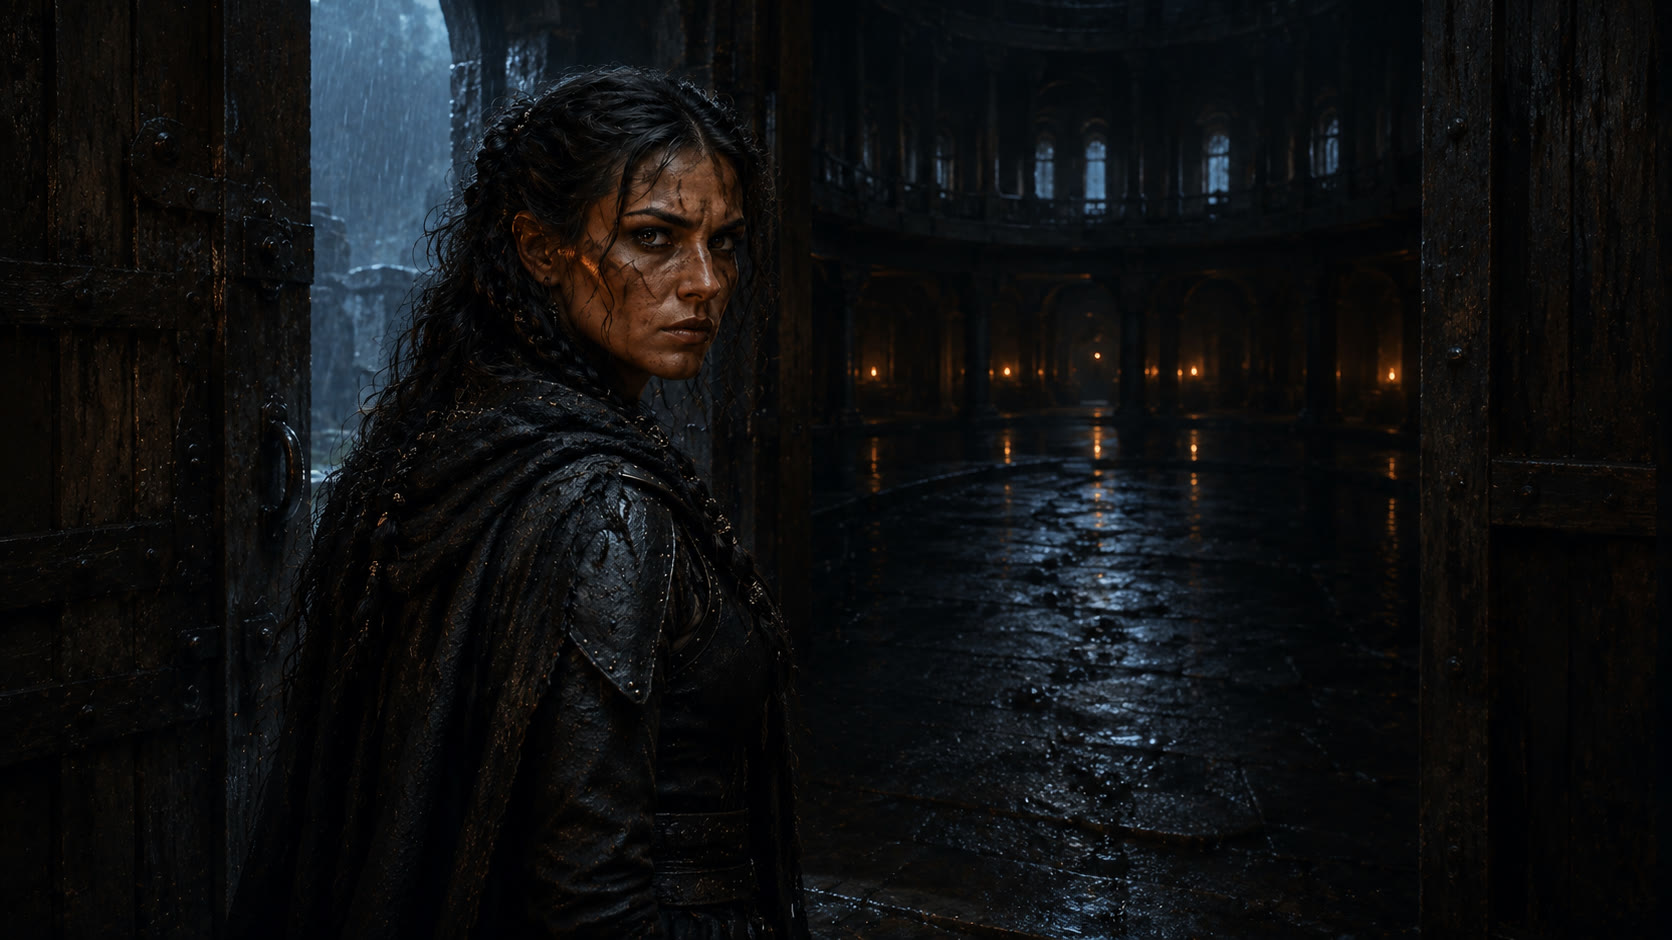
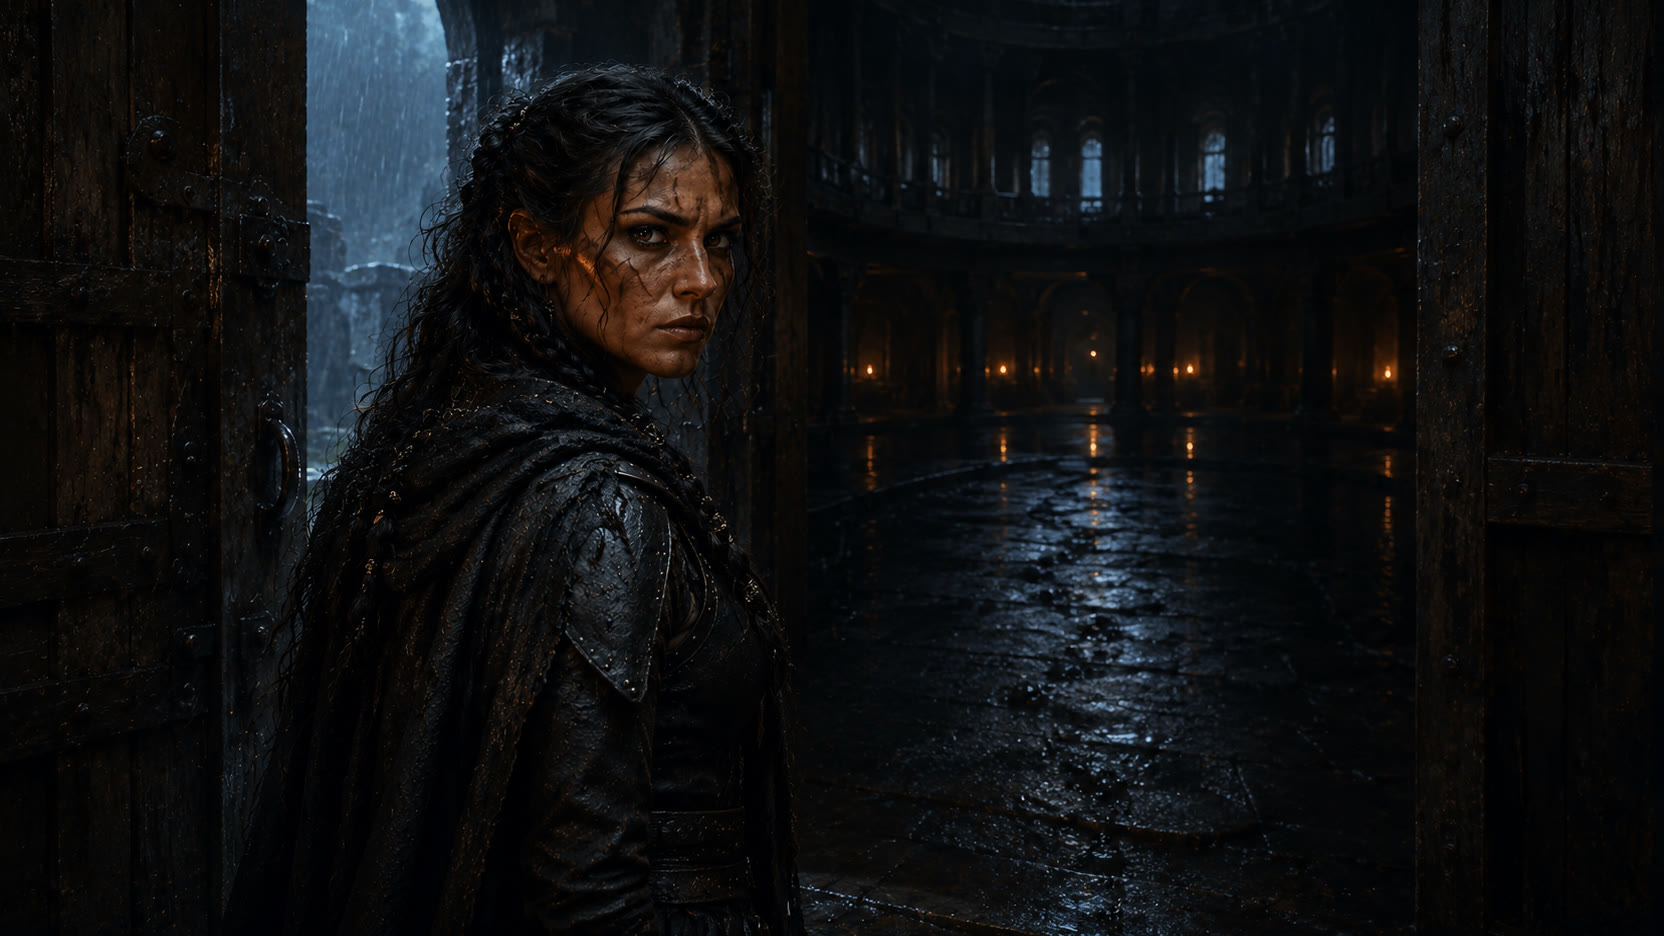
Complete canonical IronFlame production still set

diff --git a/projects/ironflame/PROMPTS.md b/projects/ironflame/PROMPTS.md
@@ -1,0 +1,60 @@
+# IronFlame — Final Image Prompt Set
+
+Generation mode: OpenAI built-in image generation. The supplied storyboard was used only as visual-direction reference. The production frames were newly generated from scratch.
+
+## Global character lock
+
+Use `assets/reference/ironflame-character-anchor.jpg` as the canonical identity reference. Preserve the exact recognizable adult woman: strong weathered face, high cheekbones, straight nose, intense dark eyes, dark wavy hair partly braided, soot/ash on realistic skin, subtle healed scar across the right cheek, worn blackened iron and leather, coarse charcoal cloak. Keep her grounded, practical, scarred, and human. Avoid glossy superhero armor, pristine cosplay, glamour styling, identity drift, text, borders, interfaces, logos, and watermarks.
+
+## Anchor
+
+Create a clean widescreen cinematic portrait in a dark ancient forge: waist-up, hands out of frame, ember light on one side and iron-blue storm shadow on the other. Cinematic realism with restrained dark-fantasy painterly texture, realistic pores, oxidized iron, worn cloth, smoke, and sparse embers. Expression: haunted but resolute.
+
+## 01 — House beneath rain
+
+Ancient isolated stone-and-timber house in a violent mountain rain; narrow windows appear to face inward toward a dim ember glow. IronFlame is a small solitary silhouette at the flooded threshold. Very wide low-angle establishing composition with foreground rain/puddles, house midground, fog mountains behind. Iron blue with one ember-orange interior pulse.
+
+## 02 — Threshold
+
+IronFlame crosses the ancient threshold from storm into darkness, intimate over-the-shoulder three-quarter view. Wet bootprints and rainwater cross dusty flagstones. Inside, inward-facing windows surround the same impossible central hall. Cold rain behind, weak ember light deep inside.
+
+## 03 — Dust remembers
+
+IronFlame works alone at an ancient forge, drawing a half-forged blade from coals with plausible blacksmith tongs. Dust, sparks, and old handprints appear briefly in smoke like memories. Medium-wide side view, face visible, authentic forge and tool geometry, strong ember light against iron-blue shadow.
+
+## 04 — Walls pronounce silence
+
+IronFlame advances through an endless vaulted stone corridor. Human profiles and ancient hand impressions emerge only as erosion, dust, and shadow. She turns toward a whispering wall while hairline ember cracks pulse through it. Long one-point perspective, wet floor, high inward windows, ash-gray/iron-blue palette.
+
+## 05 — Road with wolves
+
+IronFlame walks a narrow wet mountain road beside exactly two realistic dark wolves, moving toward distant ruins as wary equals. Over-the-shoulder journey shot with standing stones, valley fog, moon behind cloud, distant dying fire. Natural gait and scale; no heroic animal-companion pose.
+
+## 06 — Unmade day
+
+IronFlame crosses a silent field of battle remnants before sunrise. Broken shields and abandoned iron lie in rain-dark earth; tiny grass shoots emerge. No bodies or active combat. Low wide tracking composition, ruined arches, smoke becoming fog, a narrow dawn-gold horizon under heavy cloud.
+
+## 07 — Quiet thunder
+
+In a cathedral-scale ruined hall, gravity rotates around a calm IronFlame. Rainwater, dust, loose stone, and ember flecks arc upward into a storm trapped under the ceiling; realistic architecture bends toward the frame edges. Centered wide symmetrical shot, ash gray and iron blue, restrained ember at her center.
+
+## 08 — Hallway without end
+
+IronFlame reaches one anatomically correct open hand toward exactly one distant ambiguous human silhouette in an endless wet corridor. Over-the-shoulder framing; her cheek profile remains recognizable. Repeating doorways shrink into fog and cool white light. Hesitant human gesture, no magic beam, no contact yet.
+
+## 09 — Underground reflection
+
+IronFlame kneels beside still black water in a buried chamber. Her reflection shows the same face lit by dawn beneath the surface. Oxidized iron roots and stone foundations descend around her; one ember floats between face and reflection. Deep ash/iron blue with faint gold below.
+
+## 10 — Rise through the forge gate
+
+IronFlame climbs black stone steps from the underground chamber through a collapsing circular forge gate. Wind lifts cloak and hair. Smoke and embers form one restrained radial oscilloscope ring forged into the iron arch, never a software overlay. Low-angle kinetic realism; exhausted but unbroken.
+
+## 11 — Morning enters
+
+IronFlame stands beside an open inward-facing window as silent dawn enters the central hall, revealing dust, wet stone, old wood, and fading ember smoke. Intimate medium profile; her expression softens into exhausted recognition. Dawn gold overtakes ash gray and iron blue.
+
+## 12 — Legacy mark
+
+Wordless final frame. A physical hand-forged circular iron mark cools on the foreground anvil: one imperfect ring split by a flame-shaped seam. Through the open forge doorway, IronFlame walks into a dawn mountain road while exactly two wolves wait ahead. Smoke becomes morning mist. Macro foreground with deep background for rack focus.
+

diff --git a/projects/ironflame/SHOT_LIST.md b/projects/ironflame/SHOT_LIST.md
@@ -1,0 +1,27 @@
+# IronFlame — Canon Production Shot List
+
+Source timing is derived from `Ironflame (Remastered).wav`, duration **04:04.680**. The 3:20 timestamps printed in the planning board are not used.
+
+| # | Time | Production still | Story function | Animation direction |
+|---|---|---|---|---|
+| 01 | 00:00–00:18 | `01-house-beneath-rain.jpg` | House beneath the rain; inward windows | Very slow push; isolated rain planes; puddle ripples; weak ember pulse |
+| 02 | 00:18–00:42 | `02-threshold-inward-windows.jpg` | Footsteps cross the threshold | Over-shoulder drift; exterior rain; interior reflection and lamp flicker |
+| 03 | 00:42–01:17 | `03-dust-remembers-forge.jpg` | Dust remembers hands; iron remembers flame | Tongs/blade micro-motion; furnace breathing; sparks on onsets; smoke-hand memories |
+| 04 | 01:17–01:35 | `04-walls-pronounce-silence.jpg` | The walls almost know her name | Deep corridor push; ember cracks pulse; wall faces emerge only through light |
+| 05 | 01:35–01:50 | `05-road-with-wolves.jpg` | Sleeping distance becomes a road | Lateral parallax; fog drift; cloak and wolf gait micro-loops; distant fire decay |
+| 06 | 01:50–02:02 | `06-unmade-day.jpg` | Leaving, aftermath, first unmade dawn | Restrained tracking; steam/fog; grass and cloak movement; horizon gold grows |
+| 07 | 02:02–02:17 | `07-quiet-thunder.jpg` | Ceiling thunder; gravity loses direction | Major temporal painting: architecture rotation, suspended debris, pressure-synced scale |
+| 08 | 02:17–02:47 | `08-hallway-without-end.jpg` | Reaching the stranger before friendship | Long focus pull and corridor push; hand held stable; distant figure gains definition |
+| 09 | 02:47–03:07 | `09-underground-reflection.jpg` | Recognition underground | Locked camera; water/reflection motion; ash fall; ember becomes dawn below |
+| 10 | 03:07–03:30 | `10-rise-through-forge-gate.jpg` | The IronFlame rises | Strong forward motion; cloak/hair; radial forged waveform; ember bursts on transients |
+| 11 | 03:30–03:53 | `11-morning-enters.jpg` | Morning enters without sound | Slow intimate push; curtain and dust; storm blue drains into dawn gold |
+| 12 | 03:53–04:04.680 | `12-legacy-mark.jpg` | The mark remains; the journey continues | Rack focus mark→heroine; last heat pulse; wolves wait; slow fade after audio tail |
+
+## Edit structure
+
+The signal-derived structural boundaries are approximately 00:42, 01:17, 01:35, 02:02, 02:17, 02:47, 03:07, 03:30, and 03:53. Shorter shot changes inside those spans are deliberate visual subdivisions.
+
+## Character rule
+
+All visible appearances use `assets/reference/ironflame-character-anchor.jpg`. Preserve the same face, hair, right-cheek scar, weathered blackened armor, charcoal cloak, and grounded physicality.
+

diff --git a/projects/ironflame/QC.md b/projects/ironflame/QC.md
@@ -1,0 +1,30 @@
+# IronFlame — Still Asset QC
+
+**Pass:** canonical pre-animation still set  
+**Canvas:** 1664×936, exact 16:9  
+**Color:** sRGB production references; final video grade remains Rec.709
+
+## Result
+
+All twelve selected production stills and the character anchor passed visual review for composition, identity continuity, faces, hands, animals, major props, architecture, duplicated objects, unintended text, and obvious generation artifacts.
+
+Intentional elements that must not be mistaken for defects:
+
+- Shot 03: smoke contains faint hand-memory forms.
+- Shot 04: wall erosion contains face and hand impressions.
+- Shot 07: curved architecture and suspended masonry express gravity inversion.
+- Shot 08: the foreground open hand is intentionally prominent and has five natural fingers.
+- Shot 09: the second face is an intentional water reflection.
+- Shot 10: the radial geometry is an in-world forged audio-reactive gate.
+- Shot 12: the incomplete iron ring is the intentionally imperfect legacy mark.
+
+## Temporal QC required after animation
+
+- Lock face and costume across local deformation.
+- Prevent hand/finger warping in shots 03, 08, and 09.
+- Prevent wolf limb/body morphing in shots 05 and 12.
+- Keep the distant figure singular in shot 08.
+- Check debris continuity and edge shimmer in shot 07.
+- Check radial gate flicker and moiré in shot 10.
+- Validate rain locality, smoke direction, black frames, color continuity, exact duration, and audio sync.
+

diff --git a/projects/ironflame/AUDIO_RECOVERY.md b/projects/ironflame/AUDIO_RECOVERY.md
@@ -1,0 +1,23 @@
+# IronFlame — Audio Recovery
+
+Canonical lossless source supplied for this production:
+
+- filename: `Ironflame (Remastered).wav`
+- PCM: 48 kHz, 16-bit, stereo
+- duration: 244.680 seconds
[1 lines of base64/hex data omitted]
+
+GitHub also contains a 320 kb/s MP3 working reference split into small binary parts so connector upload limits do not strand the production in one chat.
+
+Reassemble from the repository root:
+
+```bash
+cat projects/ironflame/assets/audio/working-reference.parts/part-* > ironflame-remastered-working-reference.mp3
+```
+
+Expected reconstructed MP3 SHA-256:
+
[1 lines of base64/hex data omitted]
+
+Use the reconstructed MP3 for analysis, timing, previews, and assembly recovery. Use the canonical WAV for the final master mux whenever the lossless attachment is available.
+
